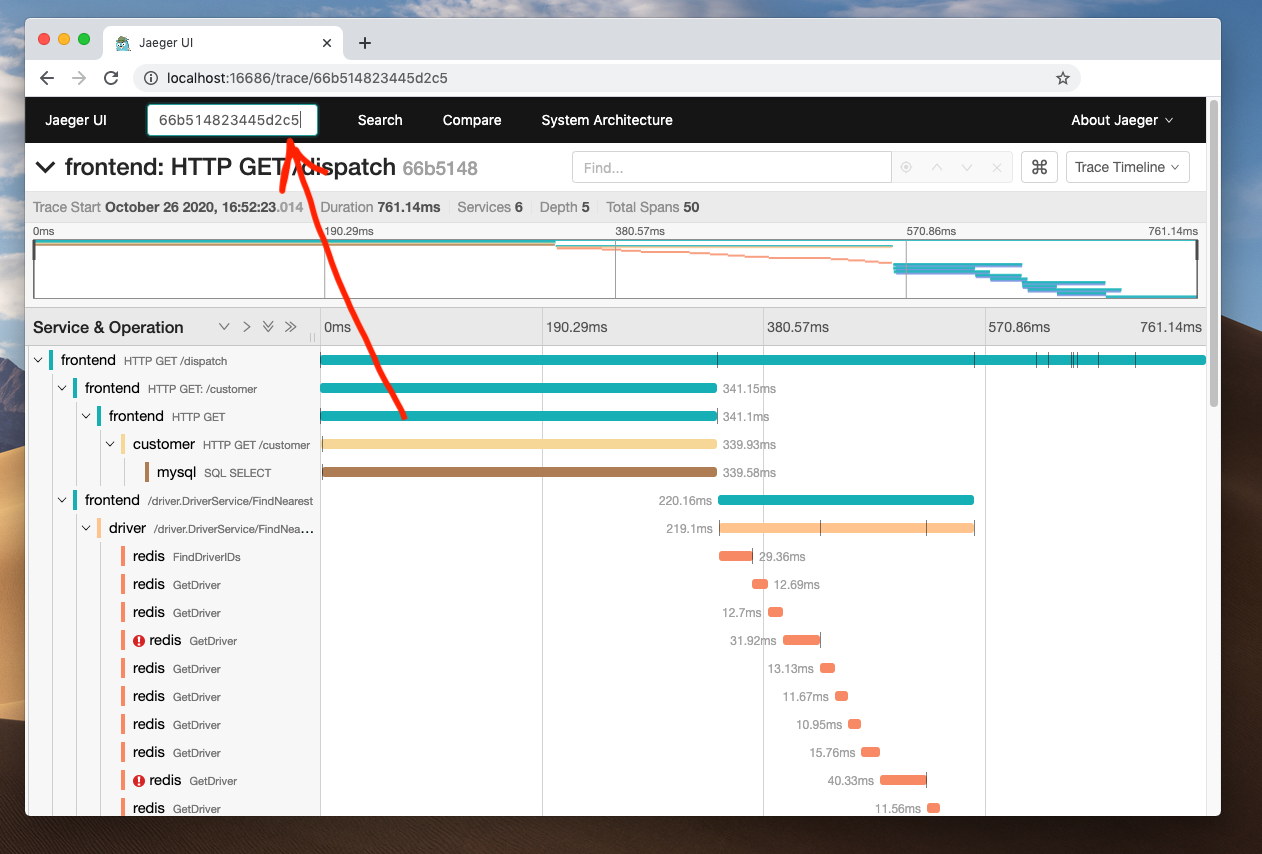
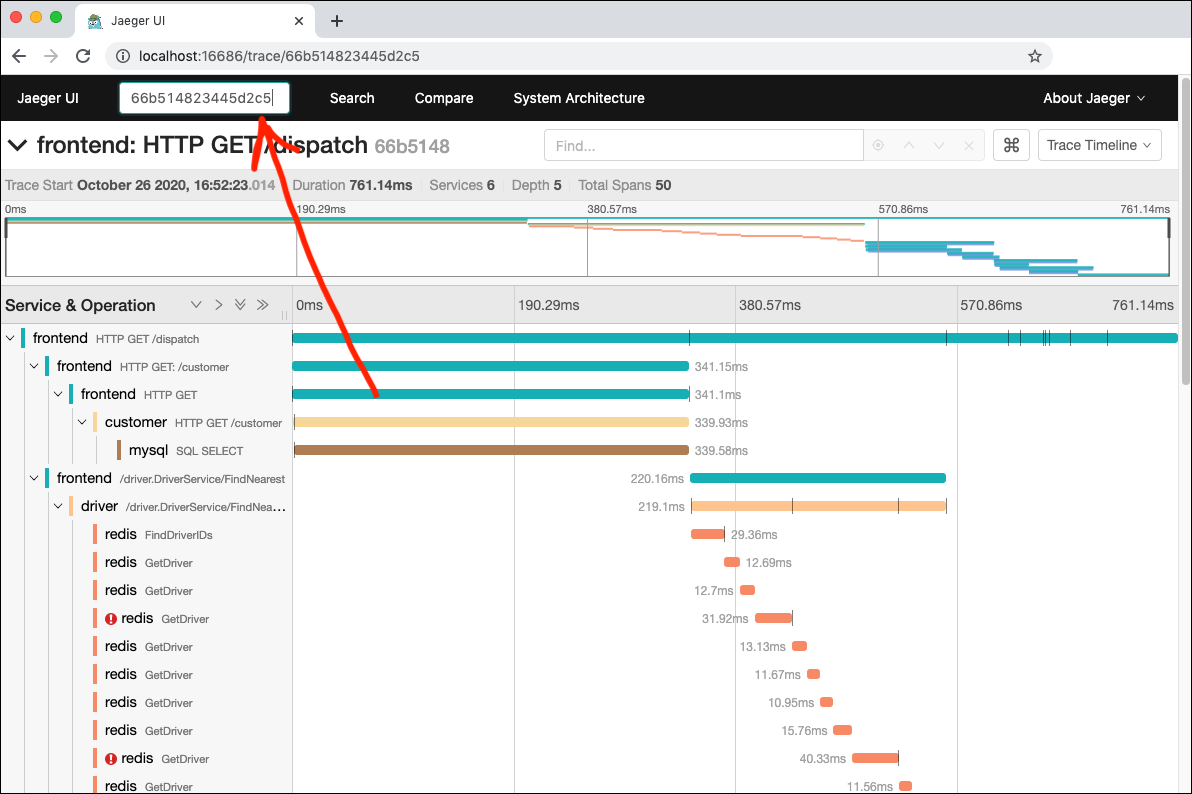
Change to TOC structure and other reorg to individual topics (#365)
* Change to TOC and Configuration section

* More reorganzation

* Updated relref link.

Changed region(s): [[0.0, 0.0, 1.0, 1.0]]

diff --git a/docs/tempo/website/getting-started/_index.md b/docs/tempo/website/getting-started/_index.md
@@ -3,11 +3,12 @@ title: Getting started
 weight: 100
 ---
 
-Getting started with Tempo is easy.  For an application already instrumented for tracing, this guide can help quickly set it up with Tempo. If you're looking for a demo application to play around with Tempo, skip to the [examples](#examples-with-demo-app) section at the bottom of this page.
+# Getting started with Tempo
 
-## Setting up Tempo
+Getting started with Tempo is easy.  For an application already instrumented for tracing, this guide can help quickly set it up with Tempo. If you're looking for a demo application to play around with Tempo, skip to the [examples with demo app]({{< relref "example-demo-app.md" >}})topic.
 
-### Spin up Tempo backend
+> **Note:** The Grafana Cloud Agent is already set up to use Tempo. Refer to the [configuration](https://github.com/grafana/agent/blob/master/docs/configuration-reference.md#tempo_config) and [example](https://github.com/grafana/agent/blob/master/example/docker-compose/agent/config/agent.yaml) for details.
+### Step 1: Spin up Tempo backend
 
 First, set up a docker network as shown -
 
@@ -43,7 +44,7 @@ docker run -d --rm -p 6831:6831/udp --name tempo -v $(pwd)/tempo-local.yaml:/etc
     -config.file=/etc/tempo-local.yaml
 ```
 
-### Spin up Tempo Query container
+## Step 2: Spin up Tempo Query container
 
 Download the [configuration file](https://github.com/grafana/tempo/blob/master/example/docker-compose/etc/tempo-query.yaml) using the following command -
 
@@ -62,7 +63,7 @@ docker run -d --rm -p 16686:16686 -v $(pwd)/tempo-query.yaml:/etc/tempo-query.ya
 
 Make sure the UI is accessible at http://localhost:16686. If the UI looks similar to the Jaeger Query UI, that's because it is! Tempo Query uses the Jaeger Query framework together with a hashicorp go-grpc plugin to query the Tempo backend.
 
-### Send traces from the application to Tempo
+## Step 3: Send traces from the application to Tempo
 
 Depending on the client SDK used for instrumentation, the parameters to configure might be different. The following example shows configuration parameters for applications instrumented with the [Jaeger Golang Client](https://github.com/jaegertracing/jaeger-client-go).
 
@@ -75,32 +76,10 @@ JAEGER_AGENT_PORT=6831
 
 For a complete list of SDKs, visit the [OpenTelemetry Registry](https://opentelemetry.io/registry/?s=sdk).
 
-### Query for traces
+## Step 4: Query for traces
 
 You're all set to use Tempo! Make sure you're logging trace ids in your application logs, because Tempo can only retrieve a trace when queried with its ID.
 
-View the logs of the application, copy a traceID and paste it in the Query UI at http://localhost:16686 ("Search by Trace ID" - In the navbar at the top).
+View the logs of the application, copy a traceID and paste it in the Query UI at http://localhost:16686 ("Search by Trace ID" - In the navbar at the top). Happy tracing!
 
 <p align="center"><img src="tempo-query-ui.png" alt="Tempo Query UI"></p>
-
-Happy tracing!
-
-
-## Examples with demo app
-
-If you don't have an application to instrument at the moment, fret not! A number of [examples](https://github.com/grafana/tempo/tree/master/example) have been provided which show off various deployment and [configuration](../configuration) options.
-
-Some highlights:
-- [Configuration](https://github.com/grafana/tempo/blob/master/example/docker-compose/etc/tempo-s3-minio.yaml)
-  - Shows S3/minio config
-  - Shows how to start all receivers with their default endpoints
-  - Shows most configuration options
-- [Docker-compose](https://github.com/grafana/tempo/blob/master/example/docker-compose/docker-compose.yaml)
-  - Shows an extremely basic configuration with local storage.
-- [Microservices](https://github.com/grafana/tempo/tree/master/example/tk)
-  - This jsonnet based example shows a complete microservice based deployment.
-
-
-## Grafana Cloud Agent
-
-The Grafana Cloud Agent is already set up to use Tempo. Refer to the [configuration](https://github.com/grafana/agent/blob/master/docs/configuration-reference.md#tempo_config) and [example](https://github.com/grafana/agent/blob/master/example/docker-compose/agent/config/agent.yaml) for details.

diff --git a/docs/tempo/website/configuration/_index.md b/docs/tempo/website/configuration/_index.md
@@ -1,11 +1,20 @@
 ---
 title: Configuration
-weight: 300
+weight: 200
 ---
 
-This document contains most configuration options and details of what they impact.
+# Configuration
 
-### Authentication/Server
+This section explains the configuration options for Tempo as well as the details of what they impact. It includes:
+
+  - [Authentication/Server](#authenticationserver)
+  - [Distributor](#distributor)
+  - [Ingester](#ingester)
+  - [Compactor](#compactor)
+  - [Storage](#storage)
+  - [Memberlist](#memberlist)
+
+## Authentication/Server
 Tempo uses the Weaveworks/common server.  See [here](https://github.com/weaveworks/common/blob/master/server/server.go#L45) for all configuration options.
 
 ```
@@ -14,7 +23,7 @@ server:
   http_listen_port: 3100
 ```
 
-### [Distributor](https://github.com/grafana/tempo/blob/master/modules/distributor/config.go)
+## [Distributor](https://github.com/grafana/tempo/blob/master/modules/distributor/config.go)
 Distributors are responsible for receiving spans and forwarding them to the appropriate ingesters.  The below configuration
 exposes the otlp receiver on port 0.0.0.0:5680.  [This configuration](https://github.com/grafana/tempo/blob/master/example/docker-compose/etc/tempo-s3-minio.yaml) shows how to
 configure all available receiver options.
@@ -28,7 +37,7 @@ distributor:
                     endpoint: 0.0.0.0:55680
 ```
 
-### [Ingester](https://github.com/grafana/tempo/blob/master/modules/ingester/config.go)
+## [Ingester](https://github.com/grafana/tempo/blob/master/modules/ingester/config.go)
 The ingester is responsible for batching up traces and pushing them to [TempoDB](#storage).
 
 ```
@@ -40,7 +49,7 @@ ingester:
     traces_per_block: 100000        # maximum number of traces in a block before cutting it
 ```
 
-### [Compactor](https://github.com/grafana/tempo/blob/master/modules/compactor/config.go)
+## [Compactor](https://github.com/grafana/tempo/blob/master/modules/compactor/config.go)
 Compactors stream blocks from the storage backend, combine them and write them back.  Values shown below are the defaults.
 
 ```
@@ -58,7 +67,7 @@ compactor:
                                     # this tells the compactors to use a ring stored in memberlist to coordinate.
 ```
 
-### [Storage](https://github.com/grafana/tempo/blob/master/tempodb/config.go)
+## [Storage](https://github.com/grafana/tempo/blob/master/tempodb/config.go)
 The storage block is used to configure TempoDB.
 
 For the s3 backend, the following authentication methods are supported:
@@ -89,7 +98,7 @@ storage:
             path: /var/tempo/wal                 # where to store the head blocks while they are being appended to
 ```
 
-### Memberlist
+## Memberlist
 [Memberlist](https://github.com/hashicorp/memberlist) is the default mechanism for all of the Tempo pieces to coordinate with each other.
 
 ```

diff --git a/docs/tempo/website/getting-started/example-demo-app.md b/docs/tempo/website/getting-started/example-demo-app.md
@@ -1,0 +1,18 @@
+---
+title: Examples with demo app
+---
+
+# Examples with demo app
+
+If you don't have an application to instrument at the moment, fret not! A number of [examples](https://github.com/grafana/tempo/tree/master/example) have been provided which show off various deployment and [configuration](../configuration) options.
+
+Some highlights:
+- [Configuration](https://github.com/grafana/tempo/blob/master/example/docker-compose/etc/tempo-s3-minio.yaml)
+  - Shows S3/minio config
+  - Shows how to start all receivers with their default endpoints
+  - Shows most configuration options
+- [Docker-compose](https://github.com/grafana/tempo/blob/master/example/docker-compose/docker-compose.yaml)
+  - Shows an extremely basic configuration with local storage.
+- [Microservices](https://github.com/grafana/tempo/tree/master/example/tk)
+  - This jsonnet based example shows a complete microservice based deployment.
+

diff --git a/docs/tempo/website/_index.md b/docs/tempo/website/_index.md
@@ -8,10 +8,11 @@ aliases:
 
 <p align="center"><img src="logo_and_name.png" alt="Tempo Logo"></p>
 
-Grafana Tempo is an open source, easy-to-use and high-volume distributed tracing backend. Tempo is cost-efficient, requiring only object storage to operate, and is deeply integrated with Grafana, Prometheus, and Loki.
+Grafana Tempo is an open source, easy-to-use and high-volume distributed tracing backend. Tempo is cost-efficient, requiring only object storage to operate, and is deeply integrated with Grafana, Prometheus, and Loki. To learn more about Grafana, refer to [What is Grafana?](https://grafana.com/docs/grafana/latest/getting-started/)
+
 
 - [Getting Started](getting-started/)
-- [Community](community/)
 - [Configuration](configuration/)
 - [Integration Guides/Trace Discovery](guides/)
 - [Architecture](architecture/)
+- [Community](community/)

diff --git a/docs/tempo/website/community/_index.md b/docs/tempo/website/community/_index.md
@@ -1,14 +1,10 @@
 ---
 title: Community
-weight: 200
+weight: 500
 ---
 
-## Communicate
-
-- [Grafana Slack](https://slack.grafana.com/) #tempo channel
-- [Google Groups](https://groups.google.com/forum/#!forum/tempo-users)
-
-## Contribute
+# Contribute
+This page lists resources for developers who want to contribute to the Tempo software ecosystem.
 
 - [Governance](https://github.com/grafana/tempo/blob/master/GOVERNANCE.md)
 - [Contributing](https://github.com/grafana/tempo/blob/master/CONTRIBUTING.md)

diff --git a/docs/tempo/website/community/communication.md b/docs/tempo/website/community/communication.md
@@ -1,0 +1,8 @@
+---
+title: Communication
+---
+
+## Communicate
+
+- [Grafana Slack](https://slack.grafana.com/) #tempo channel
+- [Google Groups](https://groups.google.com/forum/#!forum/tempo-users)
